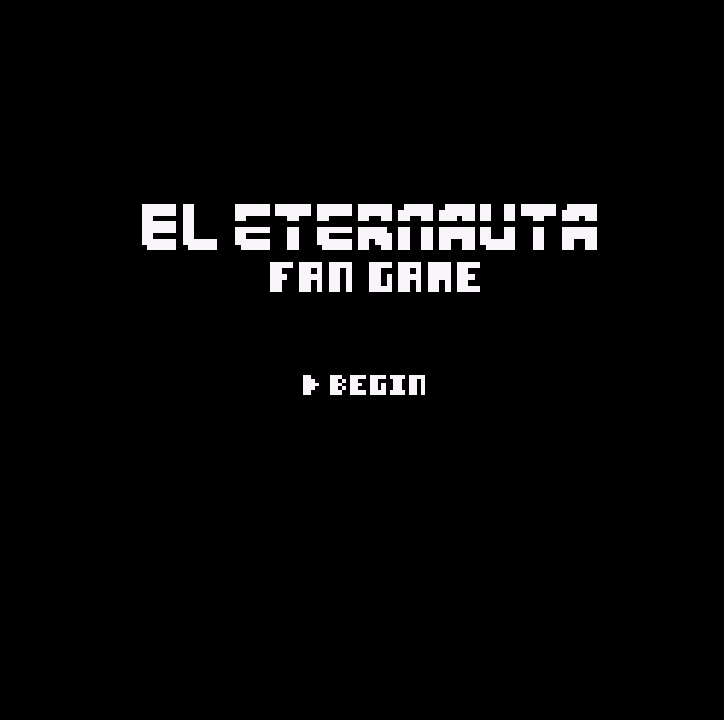
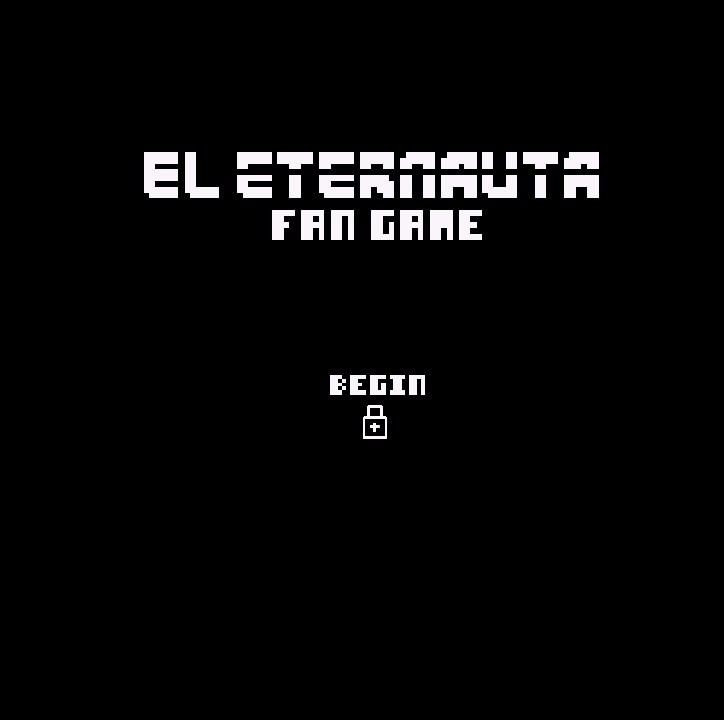
add title screen #5

Changed region(s): [[0.1823, 0.2139, 0.8508, 0.4278], [0.4862, 0.55, 0.547, 0.6111], [0.395, 0.5194, 0.4558, 0.55]]

diff --git a/main.py b/main.py
@@ -38,6 +38,7 @@ ground_decorations = []
 train_tracks = pygame.image.load(os.path.join("assets", "train.png"))
 end = pygame.image.load(os.path.join("assets", "end.png"))
 title_img = pygame.image.load(os.path.join("assets", "title.png"))
+arrow_img = pygame.image.load(os.path.join("assets", "arrow.png"))
 
 for img in range(1, 6):
     image = pygame.image.load(os.path.join("assets", f"snow{img}.png"))
@@ -56,7 +57,7 @@ for img in range(1, 3):
     ground_decorations.append(scale_image)
 
 # setup a screen
-WIDTH, HEIGHT = 800, train_tracks.get_height() - 2
+WIDTH, HEIGHT = 800, train_tracks.get_height() - 4
 SCREEN = pygame.display.set_mode((WIDTH, HEIGHT))
 pygame.display.set_caption("El Eternauta (FAN GAME)")
 
@@ -287,6 +288,9 @@ def title():
     # variables
 
     title = True
+    arrow_y = 375
+    arrow_pressed_up = False
+    arrow_pressed_down = False
 
     # title loop
 
@@ -304,14 +308,40 @@ def title():
         # draw
 
         SCREEN.blit(title_img, (WIDTH // 2 - title_img.get_width() // 2, 0))
+        SCREEN.blit(arrow_img, (345, arrow_y))
 
         # move
 
-        # exit loop
+        # keys
         keys = pygame.key.get_pressed()
 
+        if keys[pygame.K_UP]:
+            if not arrow_pressed_up:
+                arrow_y -= 32
+                arrow_pressed_up = True
+        else:
+            arrow_pressed_up = False
+
+        if keys[pygame.K_DOWN]:
+
+            if not arrow_pressed_down:
+                arrow_y += 32
+                arrow_pressed_down = True
+
+        else:
+            arrow_pressed_down = False
+
+        # reset arrow positions
+
+        if arrow_y < 375:
+            arrow_y = 375 + 32
+
+        if arrow_y > 375 + 32:
+            arrow_y = 375
+
         if keys[pygame.K_RETURN]:
-            title = False
+            if arrow_y == 375:
+                title = False
 
         # update
         pygame.display.update()
